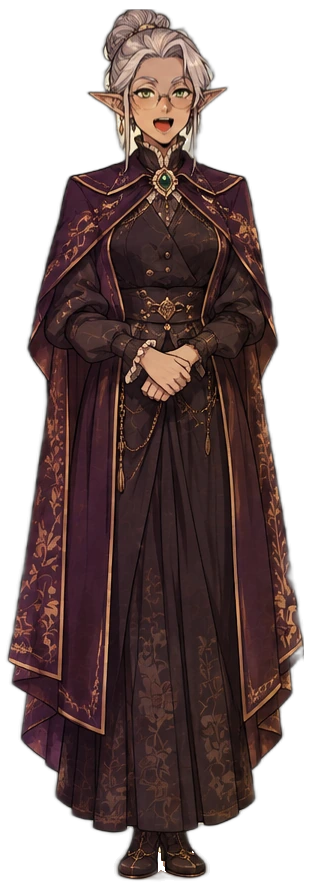
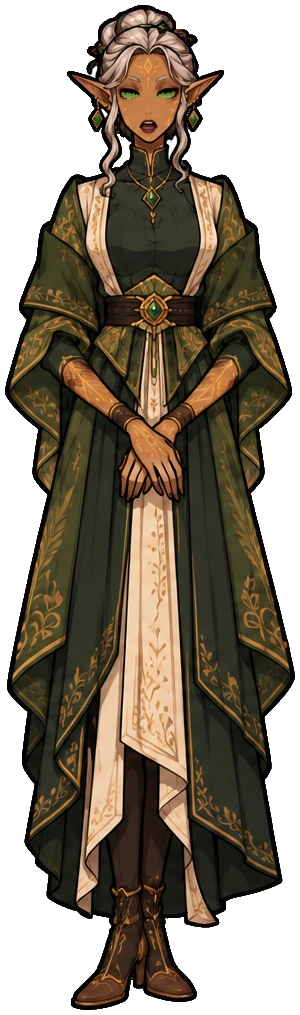
Reika no estilo novo: elfa pura, marcas douradas, olhos inteiros verdes (versao 2)
Claude-Session: https://claude.ai/code/session_01UAy89vbUTZugM6nZ8sJaNe

diff --git a/ferramentas/ficha_expressoes/verde2.py b/ferramentas/ficha_expressoes/verde2.py
@@ -1,8 +1,9 @@
 import numpy as np, cv2
 from PIL import Image
 from scipy import ndimage as nd
-CLARO=np.array([138,150,78.]); ESCURO=np.array([66,80,36.])
-OLHOS=[(70,110,130,180),(70,110,176,224)]
+CLARO=np.array([150,180,82.]); ESCURO=np.array([70,104,36.])
+OLHOS=[(78,104,119,150),(78,104,154,186)]
+_m=(np.asarray(Image.open('mascara.png'))>128).astype(np.uint8); _h=cv2.convexHull(cv2.findNonZero(_m)); ROSTO=np.zeros_like(_m); cv2.fillConvexPoly(ROSTO,_h,1); ROSTO=ROSTO>0
 def faz(f):
     a=np.asarray(Image.open(f)).astype(np.float32)
     for (Y0,Y1,X0,X1) in OLHOS:
@@ -10,22 +11,22 @@ def faz(f):
         lum=sub@[.299,.587,.114]; sat=sub.max(2)-sub.min(2)
         pele=(R>G+45)
         branco=(lum>165)&(sat<90)
-        iris=(G>B+25)&(G>=R-12)&~pele
-        semente=branco|iris
+        iris=((G>B+25)&(G>=R-12)|(G>R+3)&(G>B+10))&~pele
+        semente=(branco|iris)&ROSTO[Y0:Y1,X0:X1]
         lb,n=nd.label(semente)
         if n==0: continue
         ar=nd.sum(semente,lb,range(1,n+1)); keep=np.zeros(n+1,bool); keep[1:]=ar>=4
         sem=keep[lb]
-        if sem.sum()<30: continue
+        if sem.sum()<10: continue
         # componente principal + vizinhos próximos
         hull=cv2.convexHull(cv2.findNonZero(sem.astype(np.uint8))); H=np.zeros(sem.shape,np.uint8); cv2.fillConvexPoly(H,hull,1); H=H>0
-        H=nd.binary_dilation(H,iterations=1)&~pele
+        H=nd.binary_dilation(H,iterations=1)&~pele&ROSTO[Y0:Y1,X0:X1]
         dark=lum<70
         ys_,xs_=np.nonzero(H); cyH=(ys_.min()+ys_.max())/2
         yy_=np.arange(H.shape[0])[:,None]*np.ones((1,H.shape[1]))
         borda=H&~nd.binary_erosion(H,iterations=2)
         alvo=H&~(dark&borda&(yy_<cyH))   # mantém só o contorno escuro de cima
-        alvo|=nd.binary_dilation(H,iterations=1)&branco&~pele
+        alvo|=nd.binary_dilation(H,iterations=1)&branco&~pele&ROSTO[Y0:Y1,X0:X1]
         alvo|=H&dark&(G>R+5)                                 # anel escuro esverdeado da íris vira verde
         # brilho: o maior pontinho branco puro dentro
         br=(lum>225)&H; lbb,nb=nd.label(br)

diff --git a/CLAUDE.md b/CLAUDE.md
@@ -128,6 +128,6 @@ Cada ator da aba Atriz (`palco-animacao.html`) pode ter sentimentos: a personage
 - Palco: o texto é dividido em frases; `[surpresa]` ou `(surpresa)` no começo vale até o fim da frase, depois volta ao normal; `Tamaki: …` no começo da linha faz só esse ator falar (`FALA.quem`). Sem tag, o sentimento sai das palavras (se `emoAuto`). Botões de sentimento no painel Animação do ator.
 - Novel: `personagem tamaki "Tamaki" #cor ator Tamaki` liga ao ator (pisca e mexe a boca enquanto a fala aparece ou a voz toca); `tamaki [surpresa] "fala"` ou `tamaki (surpresa) "fala"` vale só nessa fala e volta ao do `mostra`. Sem ator, `[surpresa]` usa a arte `tamaki surpresa`.
 - Sentimentos prontos no repositório: `atores/indice.json` = `[{nome, pasta, nota, arquivos}]`, imagens em `atores/<ator>/` (WebP, mesma tela das poses originais, nomes `Tamaki_<sentimento>[_fala|_fala2|_pisca|_fala_pisca].webp`). Atriz › 😮 Sentimentos › 📥 Sentimentos prontos pergunta qual pronto (o do ator aberto vem marcado), troca para o ator com esse nome ou cria o ator se ele não existe, e instala. Arquivos sem sentimento no nome (`Kaoro.webp`, `Kaoro_fala.webp`…) vão para as poses normais (aba Imagens). Além disso, a Central (`atoresProntos()` no index.html) cria sozinha, ao abrir, todo ator do índice que ainda não existe no aparelho (uma vez só por nome: `central-atores-prontos`; apagou, não volta) e recarrega o Palco Animação. Atores prontos do Capítulo 1 (2026-11-20, folhas geradas no GPT pelo Tama): Tora, Goro, Reika, Yoru, Kiyoshi, Midori, Gen, Yuzu, Tetsuo, Banji, Hiyori, Shun, Kenichi, Momo, Kaname, Kaede, Haru e "Tamaki criança" (arquivos `Tamaki*.webp` em `atores/tamaki-crianca/`), só poses normais, WebP q92; o campo `tamanho` do índice vira o `size` do ator (crianças menores). Kaoro: só as 5 poses normais (fundo tirado com isnet-anime; todas usam o corpo da Parada e só a cabeça muda, alinhada pelo rosto, para não tremer na troca). Tamaki: feliz, animada, surpresa, convencida, emburrada, pensativa (feitas de 6 desenhos do Tama; olhos fechados = traço do olho fechado da feliz; bocas trocadas entre os desenhos dela).
-- Atores no estilo novo (bíblia de personagens, doc claude.ai/artifact/UmTf5SAu5teoMsUEmK7AdF): o Tama gera no GPT uma "ficha de expressões" = corpo inteiro com ROSTO LISO à esquerda e, à direita, grade 5 linhas × 3 colunas só de cabeças (linhas: normal, feliz, bravo, triste, surpreso; colunas: boca fechada, falando, olhos fechados). O Claude recorta (isnet-anime), acha escala/posição de cada cabeça no corpo (matchTemplate), alinha pelo nariz e cola só a pele do rosto (máscara do rosto liso do corpo), assim o cabelo e o corpo são sempre os mesmos. Vira poses normais + sentimentos (`_fala2` e `_fala_pisca` = cópia do `_fala`; sem `_pisca` quando a coluna 3 veio de olho aberto). Kaoro (versao 4), Haru, Kaede, Tamaki criança, Kenichi, Momo, Kaname, Shun, Hiyori, Banji, Tetsuo, Yuzu, Gen, Yoru, Kiyoshi e Midori (versao 2), Tetsuo e Yuzu (versao 3) já estão assim. Midori: `verde2.py` pinta o olho inteiro (contorno convexo do branco+íris de cada olho, mantém só a linha escura de cima e um brilho). Galo/galinha (versao 3): o Tama pediu o corpo SEM rosto, SEM bico e SEM barbelas, com as penas pintadas de forma orgânica (nada de oval chapado), e o Tetsuo com expressões maduras (olhos estreitos, rugas); o bico fala abrindo a parte de baixo. Montagem: `/home/claude/scripts`-style `g3x.py` (encaixa a silhueta da cabeça na do corpo, escala x/y) ou matchTemplate pelo quepe (Tetsuo .885), `b5.py CORTE FUNDO TOPO` cola a cabeça inteira entre as linhas y e alinha pelo alto, `bpisca.py`, `exporta.py`. A Yuzu brava veio com um risco vermelho (cicatriz do Tetsuo) na testa: tirado pegando só o vermelho fino (abertura com disco de raio 8 separa da crista). Yoru: r5e da Hiyori com escala .72 pela altura do rosto (rosto liso do corpo ÷ rosto da cabeça); o matchTemplate pelo cabelo dava .835, grande demais. Gen (coruja, `g3.py`/`g5.py`): as cabeças da grade vieram mais achatadas que a do corpo, então a escala é separada em x e y (.92 × 1.02), achada encaixando a silhueta da cabeça na do corpo; cola a cabeça inteira (erodida 5 px) e alinha pelas penas do alto, e a coluna 3 pelos óculos. Yuzu: mesmo caminho do Tetsuo (escala 1.0, alinhada pela crista, faixa y 72–226); o fundo_branco furou o branco dos olhos do corpo, então o alfa do resultado = máximo(corpo, cabeça colada). Tetsuo (`t3.py`/`t5.py`/`tp.py`): corpo veio com rosto desenhado; escala pelo matchTemplate de olhos+bico (.745), todas as cabeças alinhadas pelo quepe, cola a cabeça erodida 6 px entre y 96 e 192 (abaixo da aba), e o bico do corpo é apagado antes (preenchido com a cor das penas) para não sobrar bico duplo quando a cabeça tem o bico mais alto. `fundo_branco.py`: na grade só fura buracos brancos ≥ 600 px (antes furava o branco do olho). Hiyori (óculos, franja reta): corpo sem óculos, óculos só nas cabeças; alinhar pela franja (TOPO), a máscara do corpo vira contorno convexo e a faixa dos olhos entra inteira (senão a sombra da franja corta um olho). No r5e, o contorno convexo do rosto da cabeça é ERODIDO 4 px (não dilatado), senão o queixo da cabeça aparece como uma segunda linha de queixo. Cabelo branco (Kaname): limpa_borda com `peel=1, maxman=20` para não comer mechas e pontas de orelha. Scripts de referência em `ferramentas/ficha_expressoes/` (r1 fundo, r2 corta cabeças e corpo, r3 escala/posição, r4 máscara do rosto, r5b alinha pelo nariz/boca, piscar; as coordenadas mudam por personagem). Quando o isnet-anime apaga cabeças da grade, usar `fundo_branco.py` (tira o branco ligado à borda e buracos brancos fechados; no corpo qualquer buraco branco). A escala da cabeça sai melhor pela largura do rosto (rosto liso do corpo ÷ rosto da cabeça) do que pelo matchTemplate quando o cabelo é cacheado (Kaede: .78, posição pelo topo do rosto). `r5e.py` (Tamaki criança): cola só dentro do contorno convexo da pele do rosto da própria cabeça, assim o queixo da cabeça nunca aparece dentro do rosto do corpo; coluna 3 alinhada pelo nariz, e se falhar usa o ajuste da coluna 1. Kenichi (galo, `k3.py`/`k5.py`): o GPT desenhou o rosto no corpo (não veio liso), então a escala sai do matchTemplate de sobrancelhas+olhos+bico (1.28), cola o contorno convexo do rosto de penas do corpo e da cabeça, só longe da borda da cabeça (erosão de 7 px, para não trazer o contorno do pescoço), e alinha todas pela crista (o bico aberto desce e engana o alinhamento pelo bico). Piscar com os olhos fechados da própria linha (todas as colunas 3 vieram fechadas); no surpreso, pele lisa + só o traço do olho fechado, mantendo as sobrancelhas. Elfos puros (e filhos de elfo puro, como Momo e Aoi): corpo alongado (pescoço, braços, pernas e dedos compridos), orelhas muito compridas quase na horizontal, listras de tigre num tom mais escuro que a pele (testa, têmporas, embaixo dos olhos, pescoço, mãos, canelas), quase sem sobrancelha, rosto comprido e queixo fino, e o OLHO INTEIRO DE UMA COR SÓ (sem branco, sem íris/pupila; a cor varia por personagem); as cores de pele e cabelo seguem a ficha de cada um, puxando para tons claros. Referência: imagem do Tama de 2026-11-21 (corpo de ~9 cabeças, pescoço do tamanho da cabeça, braços até o meio da coxa, pernas mais da metade da altura, canelas finas e longas, mãos grandes). Família Utagawa (Midori, Reika, Raika, Momo, Aoi; o Kiyoshi não, é elfo comum): marcas TRIBAIS DOURADAS (padrão da família, pedido do Tama em 2026-11-22) no lugar das listras de tigre; roupas que mostram braços, pescoço e canelas para a anatomia aparecer. Num prompt de criança, não descrever partes do corpo (o filtro do GPT trava); falar em 'silhueta alongada de criatura de fantasia'. O GPT insiste em pôr branco nos olhos: `ferramentas/ficha_expressoes/verde.py` pinta o olho inteiro de verde (contorno convexo da íris + branco vizinho, mantém a linha de cima e um brilho). Ficha de expressões só com texto (o GPT do Tama tem limite de imagens): o prompt precisa descrever o rosto do jeito da ficha aprovada (cabelo, formato do rosto, olhos, barba), não só a bíblia. Limpeza da borda (rebarbas brancas do fundo): `ferramentas/limpa_borda.py` (tira pedacinhos soltos, manchinhas claras dentro do contorno perto da borda, halo branco e pixels claros semitransparentes). Só serve para o estilo novo (contorno preto grosso); nos atores antigos de traço fino ele come cabelo branco e penas brancas, então neles a limpeza fica para quando forem refeitos no estilo novo. Piscar: só os olhos trocam — elipses nos olhos (centros x 188 e 246, y 142 no recorte do corpo) recebem os olhos fechados da linha normal (a feliz usa os dela), em `_pisca` e `_fala_pisca` de todos os sentimentos; assim a boca e as sobrancelhas não mudam quando ele pisca.
+- Atores no estilo novo (bíblia de personagens, doc claude.ai/artifact/UmTf5SAu5teoMsUEmK7AdF): o Tama gera no GPT uma "ficha de expressões" = corpo inteiro com ROSTO LISO à esquerda e, à direita, grade 5 linhas × 3 colunas só de cabeças (linhas: normal, feliz, bravo, triste, surpreso; colunas: boca fechada, falando, olhos fechados). O Claude recorta (isnet-anime), acha escala/posição de cada cabeça no corpo (matchTemplate), alinha pelo nariz e cola só a pele do rosto (máscara do rosto liso do corpo), assim o cabelo e o corpo são sempre os mesmos. Vira poses normais + sentimentos (`_fala2` e `_fala_pisca` = cópia do `_fala`; sem `_pisca` quando a coluna 3 veio de olho aberto). Kaoro (versao 4), Haru, Kaede, Tamaki criança, Kenichi, Momo, Kaname, Shun, Hiyori, Banji, Tetsuo, Yuzu, Gen, Yoru, Kiyoshi, Midori e Reika (versao 2), Tetsuo e Yuzu (versao 3) já estão assim. Midori: `verde2.py` pinta o olho inteiro (contorno convexo do branco+íris de cada olho, mantém só a linha escura de cima e um brilho; a semente fica dentro do contorno convexo do rosto (`mascara.png`), senão o cabelo grisalho conta como branco do olho). Galo/galinha (versao 3): o Tama pediu o corpo SEM rosto, SEM bico e SEM barbelas, com as penas pintadas de forma orgânica (nada de oval chapado), e o Tetsuo com expressões maduras (olhos estreitos, rugas); o bico fala abrindo a parte de baixo. Montagem: `/home/claude/scripts`-style `g3x.py` (encaixa a silhueta da cabeça na do corpo, escala x/y) ou matchTemplate pelo quepe (Tetsuo .885), `b5.py CORTE FUNDO TOPO` cola a cabeça inteira entre as linhas y e alinha pelo alto, `bpisca.py`, `exporta.py`. A Yuzu brava veio com um risco vermelho (cicatriz do Tetsuo) na testa: tirado pegando só o vermelho fino (abertura com disco de raio 8 separa da crista). Yoru: r5e da Hiyori com escala .72 pela altura do rosto (rosto liso do corpo ÷ rosto da cabeça); o matchTemplate pelo cabelo dava .835, grande demais. Gen (coruja, `g3.py`/`g5.py`): as cabeças da grade vieram mais achatadas que a do corpo, então a escala é separada em x e y (.92 × 1.02), achada encaixando a silhueta da cabeça na do corpo; cola a cabeça inteira (erodida 5 px) e alinha pelas penas do alto, e a coluna 3 pelos óculos. Yuzu: mesmo caminho do Tetsuo (escala 1.0, alinhada pela crista, faixa y 72–226); o fundo_branco furou o branco dos olhos do corpo, então o alfa do resultado = máximo(corpo, cabeça colada). Tetsuo (`t3.py`/`t5.py`/`tp.py`): corpo veio com rosto desenhado; escala pelo matchTemplate de olhos+bico (.745), todas as cabeças alinhadas pelo quepe, cola a cabeça erodida 6 px entre y 96 e 192 (abaixo da aba), e o bico do corpo é apagado antes (preenchido com a cor das penas) para não sobrar bico duplo quando a cabeça tem o bico mais alto. `fundo_branco.py`: na grade só fura buracos brancos ≥ 600 px (antes furava o branco do olho). Hiyori (óculos, franja reta): corpo sem óculos, óculos só nas cabeças; alinhar pela franja (TOPO), a máscara do corpo vira contorno convexo e a faixa dos olhos entra inteira (senão a sombra da franja corta um olho). No r5e, o contorno convexo do rosto da cabeça é ERODIDO 4 px (não dilatado), senão o queixo da cabeça aparece como uma segunda linha de queixo. Cabelo branco (Kaname): limpa_borda com `peel=1, maxman=20` para não comer mechas e pontas de orelha. Scripts de referência em `ferramentas/ficha_expressoes/` (r1 fundo, r2 corta cabeças e corpo, r3 escala/posição, r4 máscara do rosto, r5b alinha pelo nariz/boca, piscar; as coordenadas mudam por personagem). Quando o isnet-anime apaga cabeças da grade, usar `fundo_branco.py` (tira o branco ligado à borda e buracos brancos fechados; no corpo qualquer buraco branco). A escala da cabeça sai melhor pela largura do rosto (rosto liso do corpo ÷ rosto da cabeça) do que pelo matchTemplate quando o cabelo é cacheado (Kaede: .78, posição pelo topo do rosto). `r5e.py` (Tamaki criança): cola só dentro do contorno convexo da pele do rosto da própria cabeça, assim o queixo da cabeça nunca aparece dentro do rosto do corpo; coluna 3 alinhada pelo nariz, e se falhar usa o ajuste da coluna 1. Kenichi (galo, `k3.py`/`k5.py`): o GPT desenhou o rosto no corpo (não veio liso), então a escala sai do matchTemplate de sobrancelhas+olhos+bico (1.28), cola o contorno convexo do rosto de penas do corpo e da cabeça, só longe da borda da cabeça (erosão de 7 px, para não trazer o contorno do pescoço), e alinha todas pela crista (o bico aberto desce e engana o alinhamento pelo bico). Piscar com os olhos fechados da própria linha (todas as colunas 3 vieram fechadas); no surpreso, pele lisa + só o traço do olho fechado, mantendo as sobrancelhas. Elfos puros (e filhos de elfo puro, como Momo e Aoi): corpo alongado (pescoço, braços, pernas e dedos compridos), orelhas muito compridas quase na horizontal, listras de tigre num tom mais escuro que a pele (testa, têmporas, embaixo dos olhos, pescoço, mãos, canelas), quase sem sobrancelha, rosto comprido e queixo fino, e o OLHO INTEIRO DE UMA COR SÓ (sem branco, sem íris/pupila; a cor varia por personagem); as cores de pele e cabelo seguem a ficha de cada um, puxando para tons claros. Referência: imagem do Tama de 2026-11-21 (corpo de ~9 cabeças, pescoço do tamanho da cabeça, braços até o meio da coxa, pernas mais da metade da altura, canelas finas e longas, mãos grandes). Família Utagawa (Midori, Reika, Raika, Momo, Aoi; o Kiyoshi não, é elfo comum): marcas TRIBAIS DOURADAS (padrão da família, pedido do Tama em 2026-11-22) no lugar das listras de tigre; roupas que mostram braços, pescoço e canelas para a anatomia aparecer. Num prompt de criança, não descrever partes do corpo (o filtro do GPT trava); falar em 'silhueta alongada de criatura de fantasia'. O GPT insiste em pôr branco nos olhos: `ferramentas/ficha_expressoes/verde.py` pinta o olho inteiro de verde (contorno convexo da íris + branco vizinho, mantém a linha de cima e um brilho). Ficha de expressões só com texto (o GPT do Tama tem limite de imagens): o prompt precisa descrever o rosto do jeito da ficha aprovada (cabelo, formato do rosto, olhos, barba), não só a bíblia. Limpeza da borda (rebarbas brancas do fundo): `ferramentas/limpa_borda.py` (tira pedacinhos soltos, manchinhas claras dentro do contorno perto da borda, halo branco e pixels claros semitransparentes). Só serve para o estilo novo (contorno preto grosso); nos atores antigos de traço fino ele come cabelo branco e penas brancas, então neles a limpeza fica para quando forem refeitos no estilo novo. Piscar: só os olhos trocam — elipses nos olhos (centros x 188 e 246, y 142 no recorte do corpo) recebem os olhos fechados da linha normal (a feliz usa os dela), em `_pisca` e `_fala_pisca` de todos os sentimentos; assim a boca e as sobrancelhas não mudam quando ele pisca.
 - Atualizar um ator que já existe no aparelho: suba `versao` no item do índice. `atoresProntos()` guarda as versões em `central-atores-versao`; versão maior apaga as poses normais e as dos sentimentos do pacote e grava as novas no mesmo ator (mantém sentimentos que ele já tinha). `palavras` no item do índice = palavras de cada sentimento; `tamanho` só entra se o ator ainda não tem size.
 - Novel › 🎭 Atores (no menu e na barra do Roteiro): lista cada `personagem` com a foto, se está ligado (✅ / ⚠ ator não existe / sem ator), os sentimentos prontos e os que o roteiro pede sem pose (!). A lista de atores reescreve a linha `personagem … ator X`; os atores soltos têm ＋ Criar personagem.
